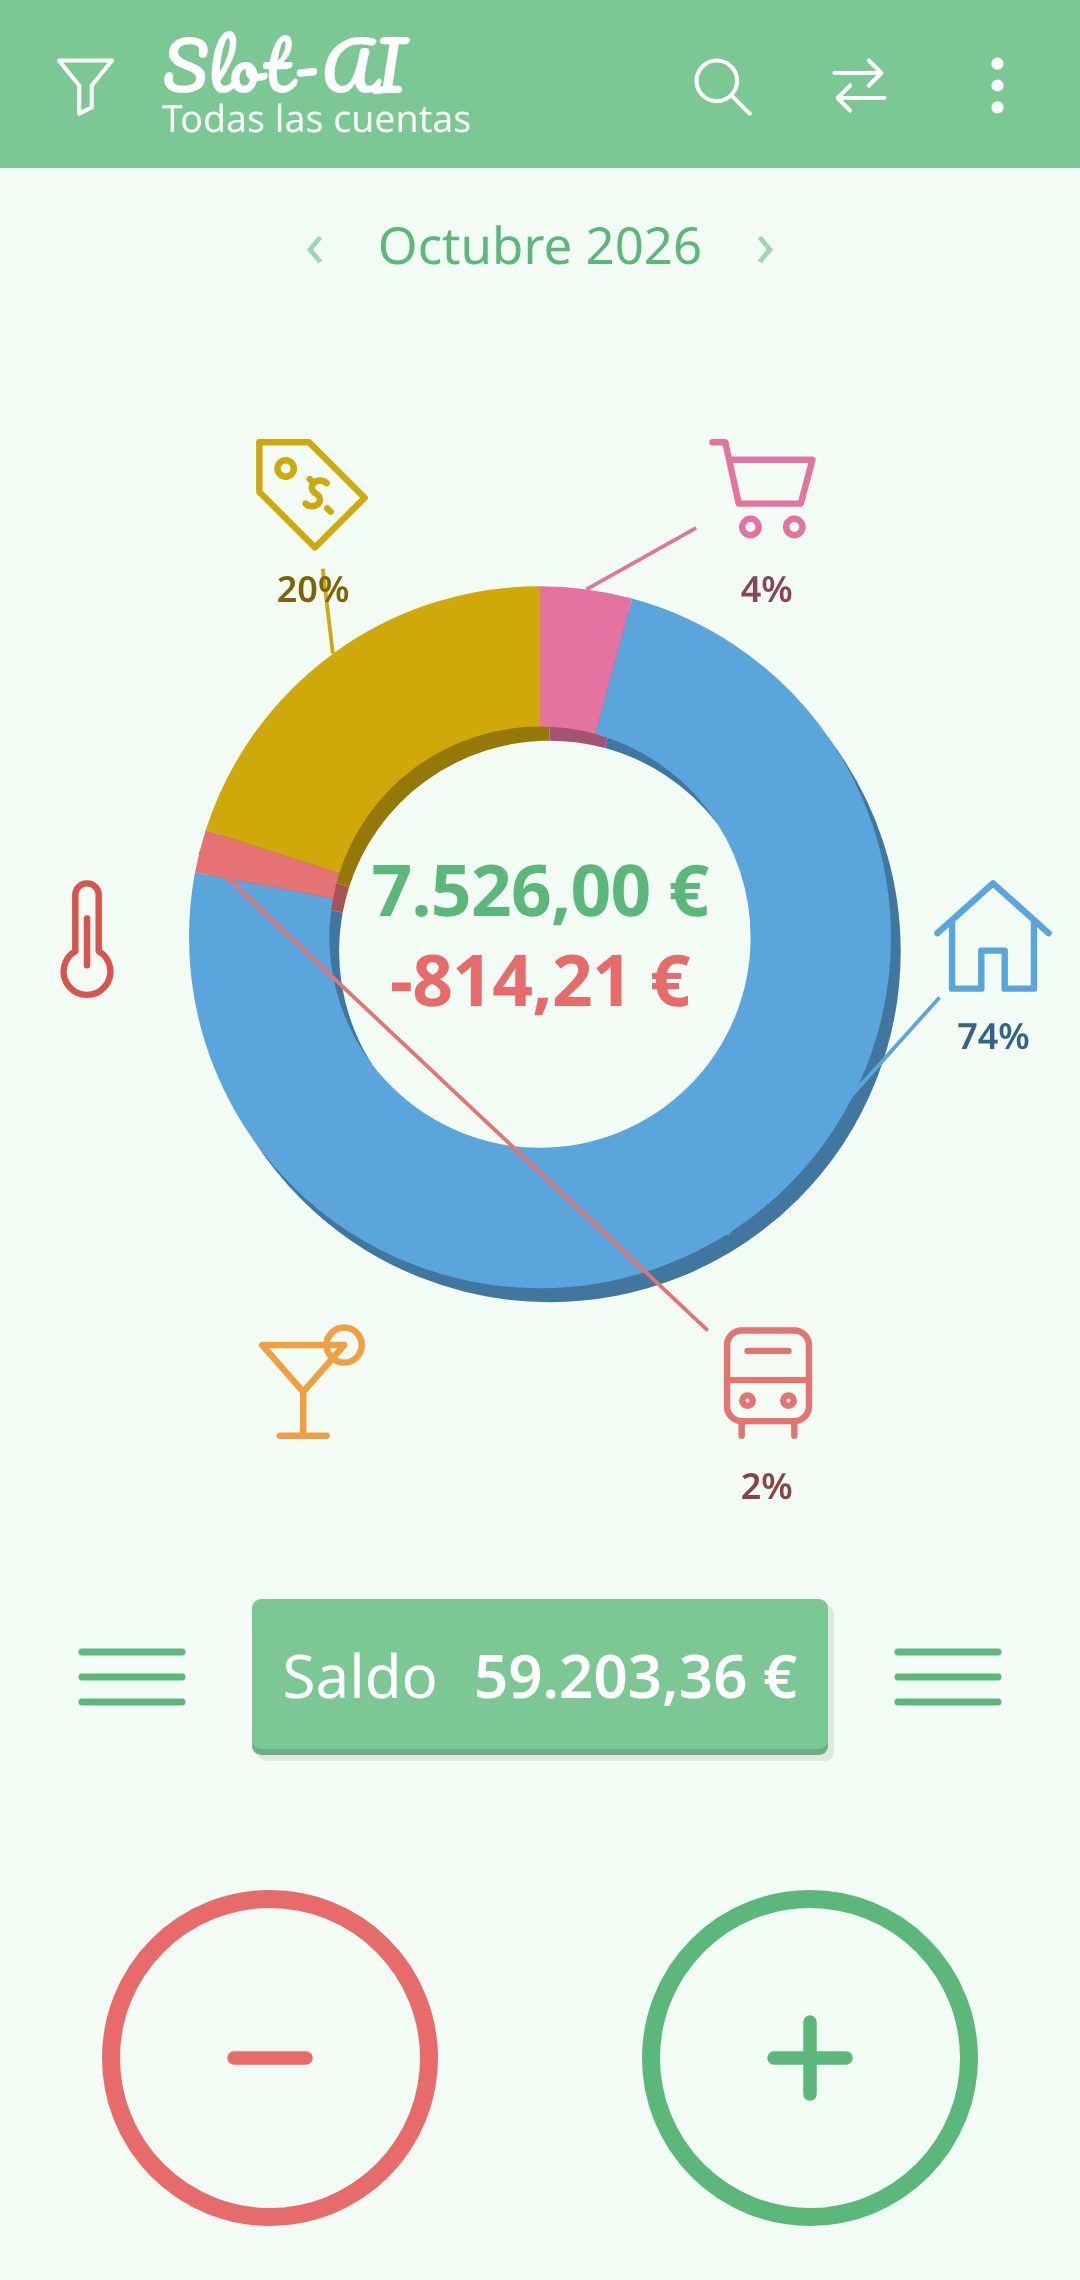
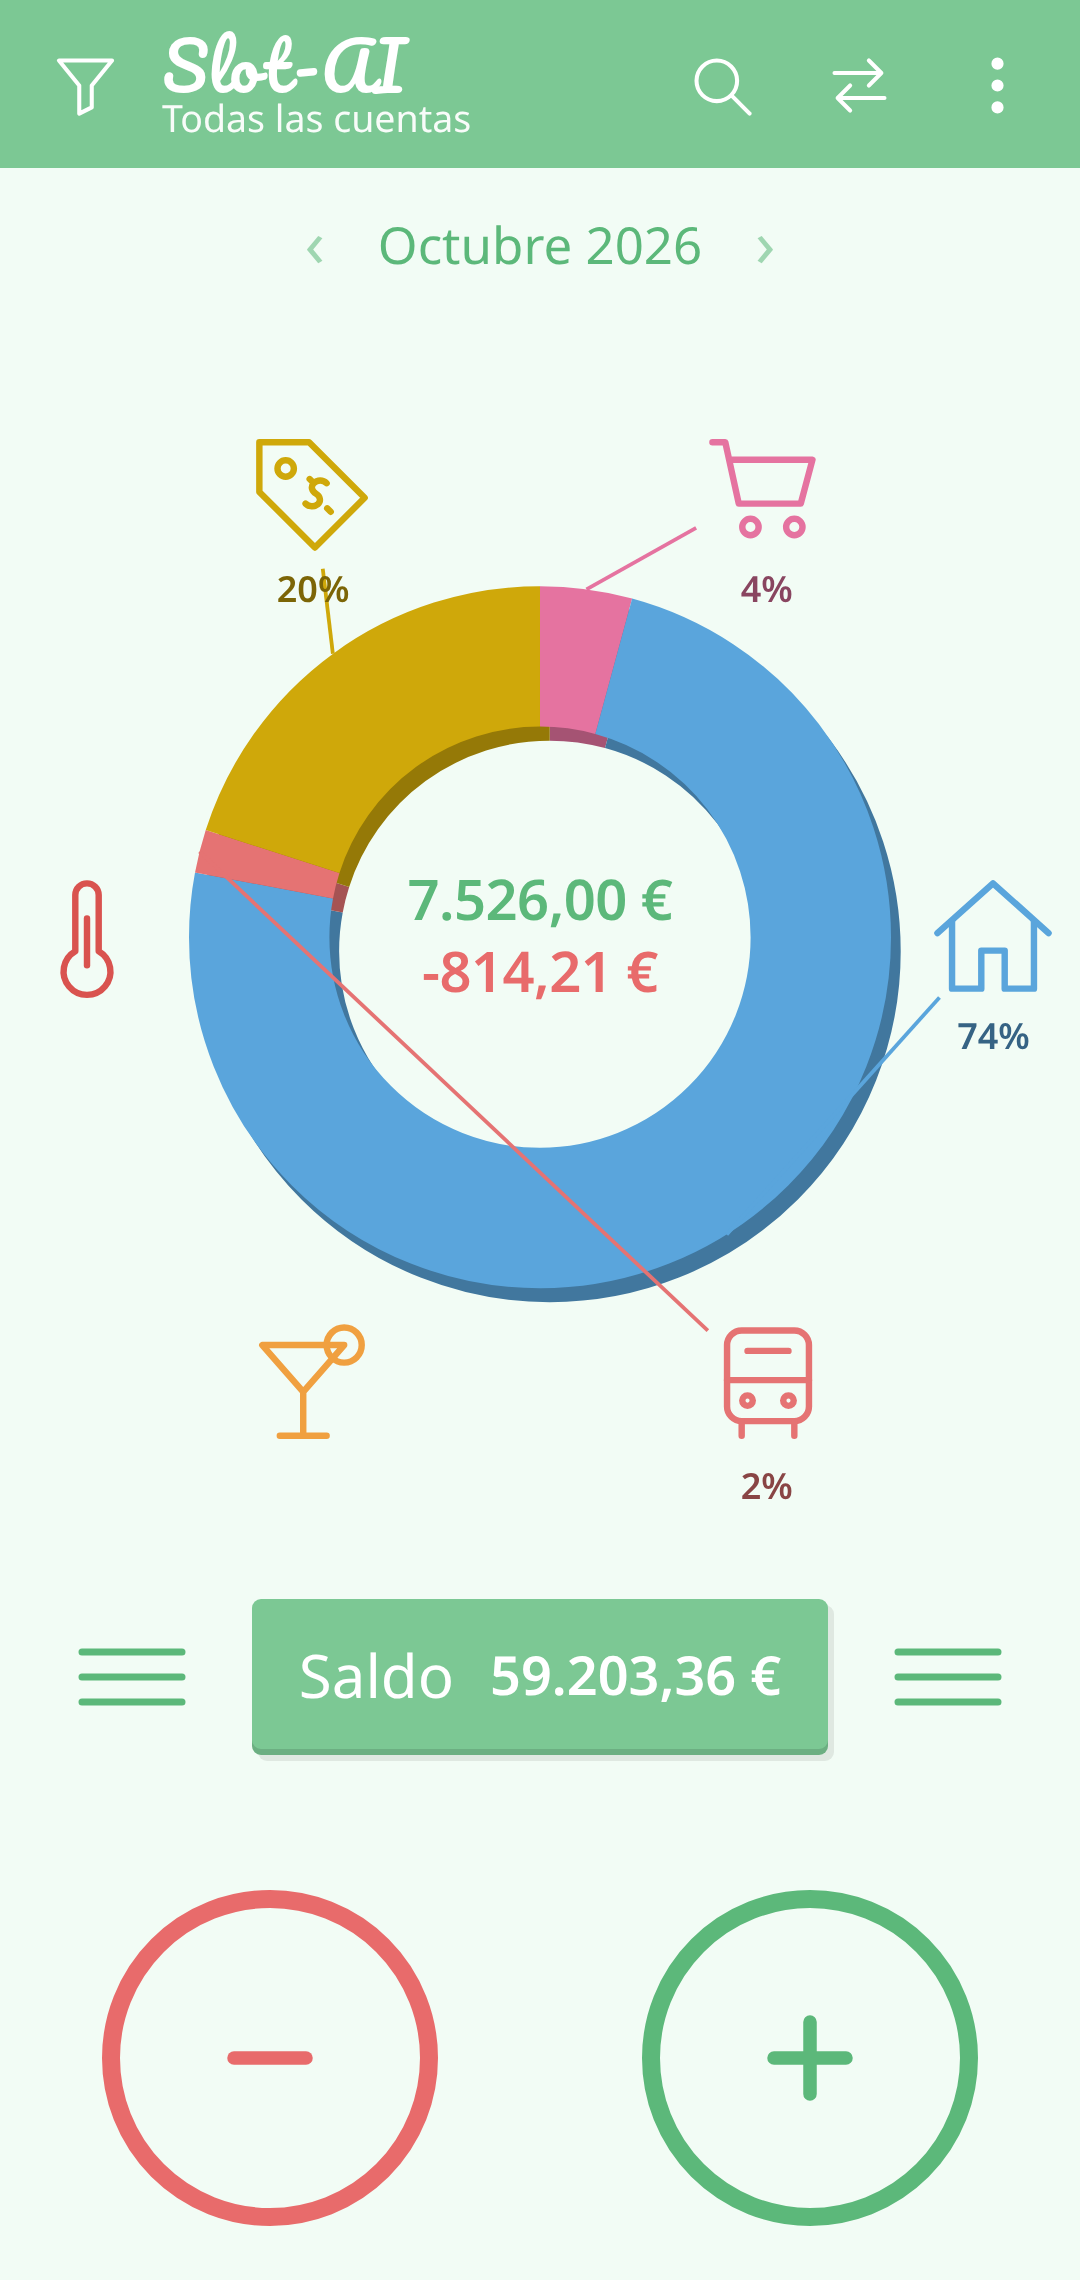
v1.3.4: tamaños más contenidos (donut 18–20 px, Saldo 18 px), céntimos a tamaño normal

Changed region(s): [[0.3361, 0.3737, 0.6722, 0.4671], [0.275, 0.7162, 0.7333, 0.7474]]

diff --git a/css/app.css b/css/app.css
@@ -23,13 +23,13 @@ small.c{font-size:inherit;font-family:inherit;vertical-align:baseline}
 .ci{position:absolute;width:13%;transform:translate(-50%,-50%);display:flex;flex-direction:column;align-items:center}
 .ci svg{width:100%;aspect-ratio:1}
 .ci .pc{font-size:12px;font-weight:600;margin-top:1px;position:absolute;top:100%}
-.center{position:absolute;left:50%;top:50%;width:37%;transform:translate(-50%,-50%);text-align:center;font-size:clamp(22px,6.6vw,26px);font-weight:700;line-height:1.25;white-space:nowrap;letter-spacing:-.01em;-webkit-text-size-adjust:100%;text-size-adjust:100%}
+.center{position:absolute;left:50%;top:50%;width:37%;transform:translate(-50%,-50%);text-align:center;font-size:clamp(18px,5.2vw,20px);font-weight:600;line-height:1.25;white-space:nowrap;letter-spacing:-.01em;-webkit-text-size-adjust:100%;text-size-adjust:100%}
 .center>div{overflow:hidden}
 .center .inc{color:var(--green)}.center .exp{color:var(--red)}
 .saldorow{display:flex;align-items:center;gap:14px;padding:8px 18px}
 .saldorow .lb{width:52px;height:40px;color:var(--green)}.saldorow .lb svg{width:52px;height:40px}
 .saldo{flex:1;height:52px;background:var(--hdr);color:#fff;border-radius:3px;font-size:20px;box-shadow:inset 0 -2px 0 rgba(0,0,0,.12),2px 2px 0 rgba(0,0,0,.08);display:flex;align-items:center;justify-content:center;gap:12px}
-.saldo b{font-weight:600;font-size:20px}
+.saldo b{font-weight:600;font-size:18px}
 .bigbtns{display:flex;justify-content:space-between;padding:10px 34px calc(env(safe-area-inset-bottom) + 18px);margin-top:auto;position:sticky;bottom:0}
 .circ{width:112px;height:112px;border-radius:50%;border:6px solid;display:flex;align-items:center;justify-content:center;background:var(--bg)}
 .circ svg{width:36px;height:36px}

diff --git a/tests/e2e.js b/tests/e2e.js
@@ -166,7 +166,7 @@ process.on('exit',()=>console.log(results.join('\n')));
    await sc.close();};
   await shoot(false);await shoot(true);
  }
- await p.goto(URL);await p.waitForSelector('.ci');for(const w of [360,412]){await p.setViewportSize({width:w,height:760});await p.waitForTimeout(100);const m=await p.$eval('#chart .center',c=>{const s=getComputedStyle(c);return{fs:parseFloat(s.fontSize),tn:s.fontVariantNumeric,fit:[...c.querySelectorAll('.num')].every(d=>d.getBoundingClientRect().width<=c.clientWidth),tf:s.transform}});ok('totales donut legibles a '+w+'px ('+m.fs+'px, tnum, sin escalar)',m.fs>=21&&m.tn.includes('tabular')&&m.tn.includes('lining')&&m.fit&&/^matrix\(1, 0, 0, 1,/.test(m.tf));}
+ await p.goto(URL);await p.waitForSelector('.ci');for(const w of [360,412]){await p.setViewportSize({width:w,height:760});await p.waitForTimeout(100);const m=await p.$eval('#chart .center',c=>{const s=getComputedStyle(c);return{fs:parseFloat(s.fontSize),tn:s.fontVariantNumeric,fit:[...c.querySelectorAll('.num')].every(d=>d.getBoundingClientRect().width<=c.clientWidth),tf:s.transform}});ok('totales donut legibles a '+w+'px ('+m.fs+'px, tnum, sin escalar)',m.fs>=17.5&&m.fs<=20.5&&m.tn.includes('tabular')&&m.tn.includes('lining')&&m.fit&&/^matrix\(1, 0, 0, 1,/.test(m.tf));}
  ok('sin errores de consola '+JSON.stringify(errs),errs.length===0);
  console.log(results.join('\n'));console.log(results.filter(r=>r.startsWith('PASS')).length+'/'+results.length+' OK');await b.close();
 })().catch(e=>{console.error(e);process.exit(1)});

diff --git a/sw.js b/sw.js
@@ -1,5 +1,5 @@
 // Cambia VERSION en cada despliegue para que los usuarios reciban la actualización.
-const VERSION='slot-ai-v1.3.3';
+const VERSION='slot-ai-v1.3.4';
 const ASSETS=['./','index.html','css/app.css','js/icons.js','js/store.js','js/app.js','fonts/pacifico.woff2','manifest.webmanifest','icons/icon-192.png','icons/icon-512.png','icons/icon-512-maskable.png'];
 self.addEventListener('install',e=>e.waitUntil(caches.open(VERSION).then(c=>c.addAll(ASSETS))));
 self.addEventListener('activate',e=>e.waitUntil(caches.keys().then(ks=>Promise.all(ks.filter(k=>k!==VERSION).map(k=>caches.delete(k)))).then(()=>self.clients.claim())));

diff --git a/js/app.js b/js/app.js
@@ -1,5 +1,5 @@
 'use strict';
-const APP_VERSION='1.3.3';
+const APP_VERSION='1.3.4';
 const $=s=>document.querySelector(s);
 const esc=s=>String(s??'').replace(/[&<>"']/g,c=>({'&':'&amp;','<':'&lt;','>':'&gt;','"':'&quot;',"'":'&#39;'}[c]));
 const D=()=>Store.data;
